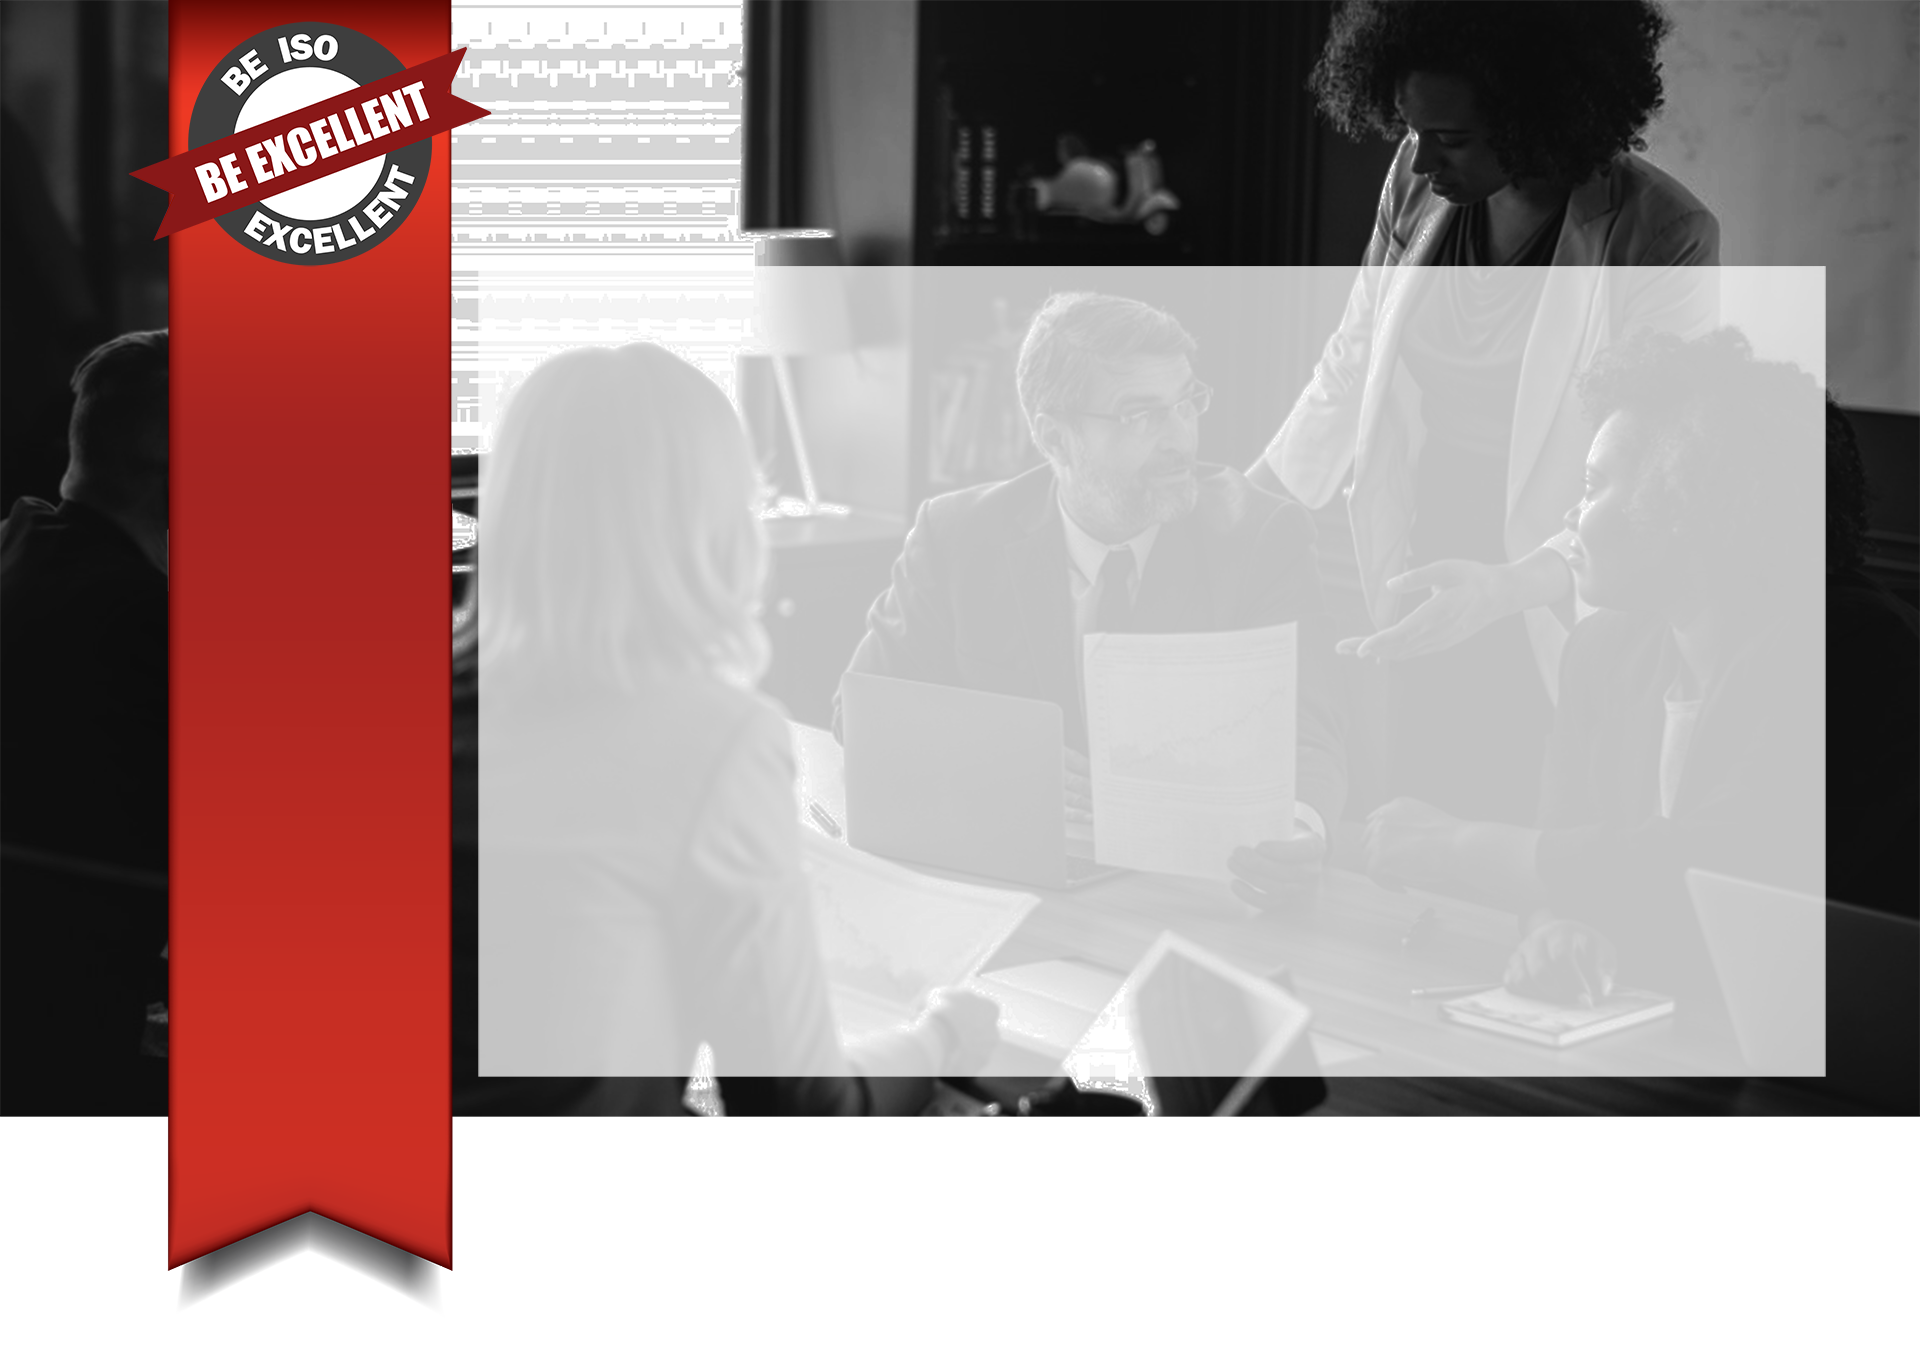
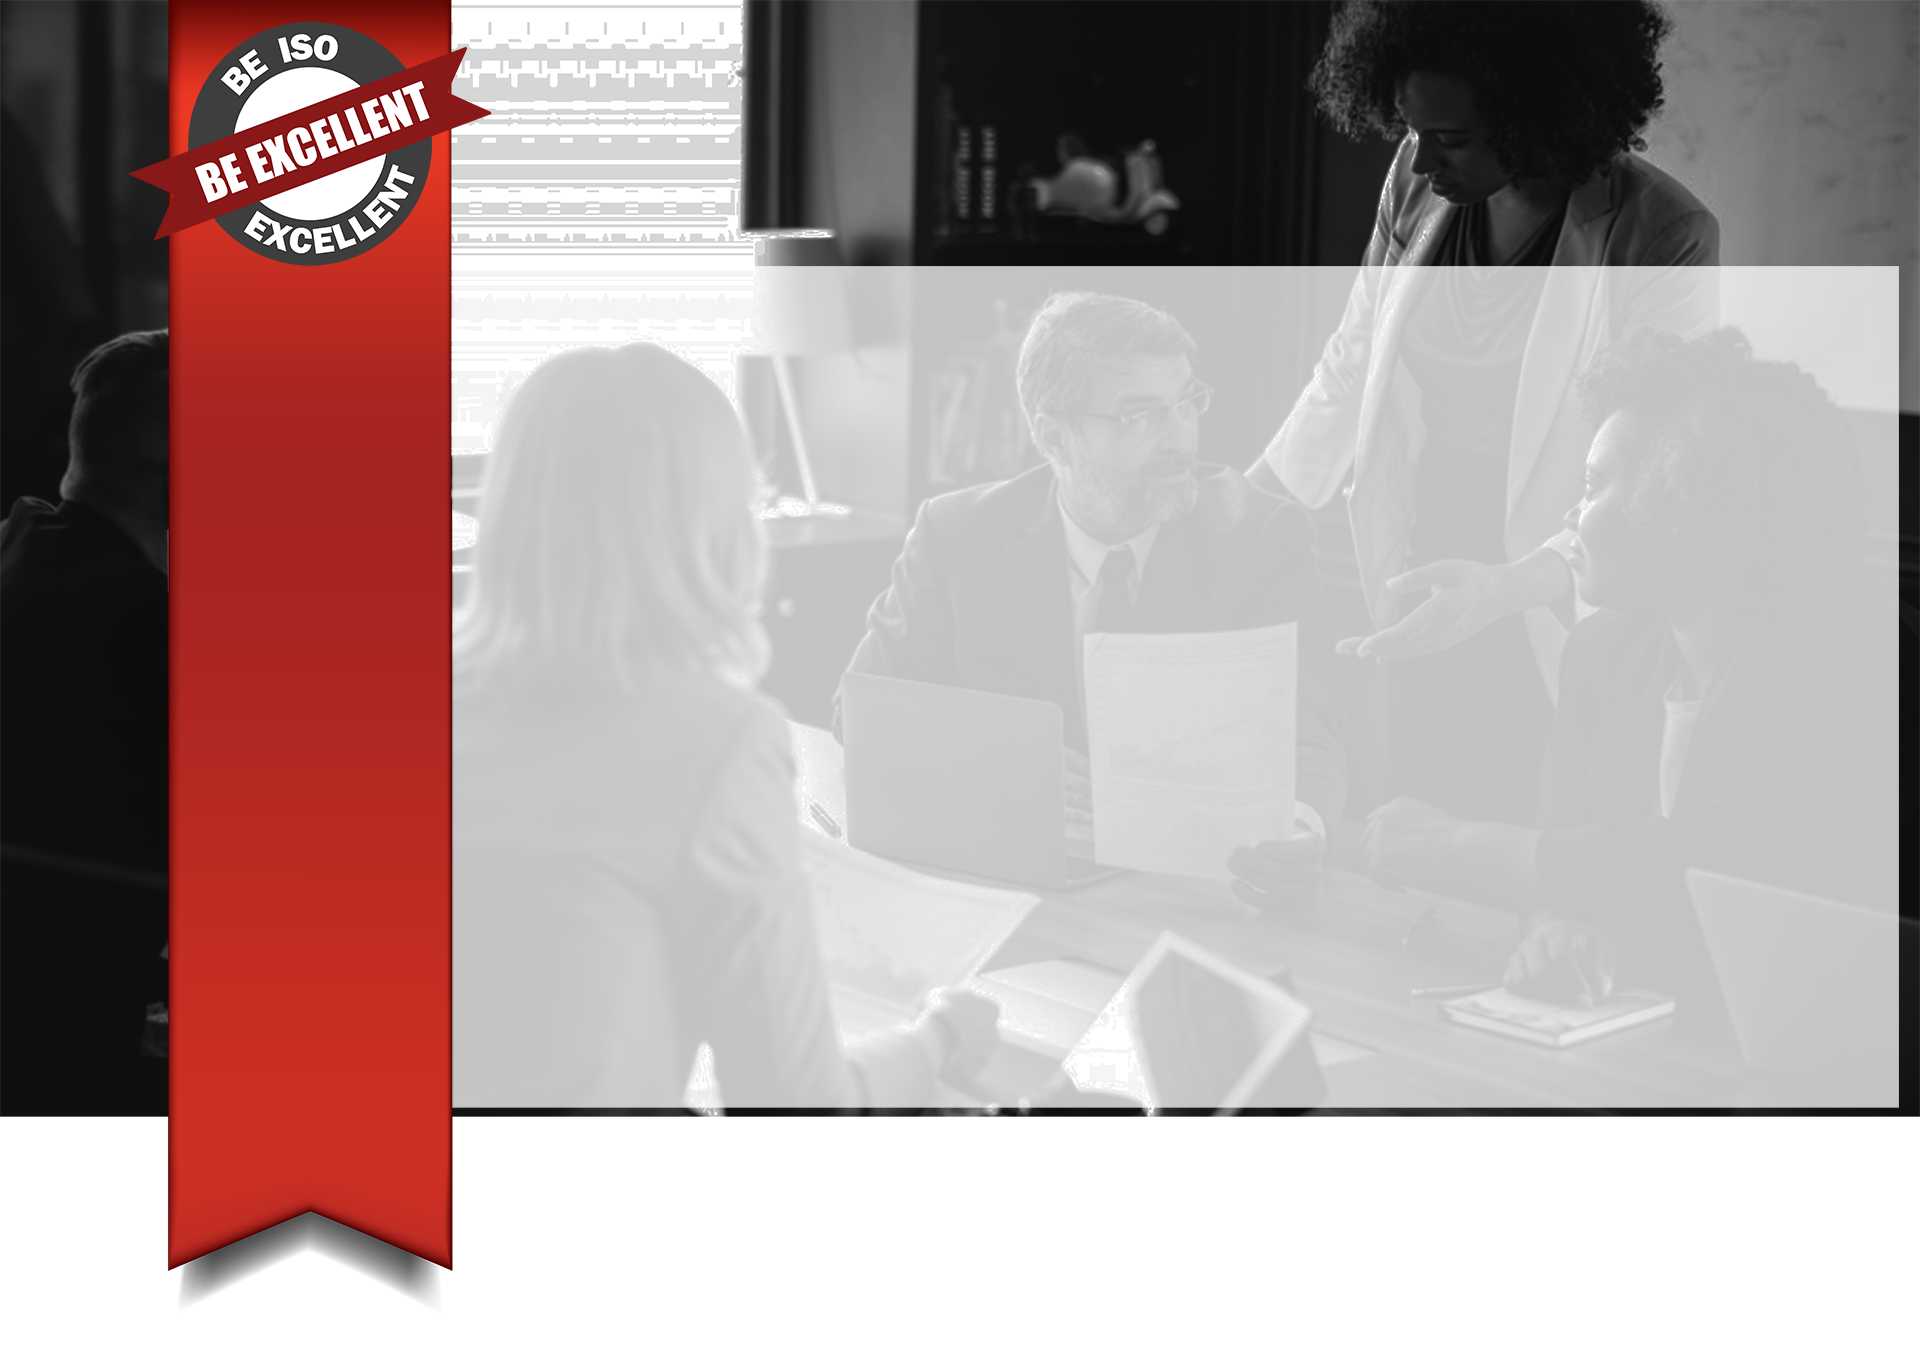
Add files via upload

Changed region(s): [[0.2188, 0.1871, 1.0, 0.8419]]

diff --git a/home.html b/home.html
@@ -34,7 +34,8 @@
 
 
         </div>
-        <div class="right">      
+        <div class="right">   
+            <div class="rectangle"> 
            
             <p>Lorem ipsum dolor sit amet, consectetur adipiscing elit, sed do eiusmo
             tempor incididunt ut labore et dolore magna aliqua. Porta nibh venenatis
@@ -70,6 +71,7 @@
             at risus viverra adipiscing at. Orci eu lobortis elementum nibh tellus molestie.
             Risus sed vulputate odio ut enim blandit volutpat. Placerat vestibulum lectus 
             mauris ultrices eros in cursus turpis.</p>  
+            </div>
         </div>
     </main>
     <footer></footer>    

diff --git a/enterprise.css b/enterprise.css
@@ -32,7 +32,7 @@ header {
     display: flex;
     -webkit-flex-direction: row;
     flex-direction: row; 
-    height: 63%;
+    height: 40%;
     padding-top: 5%;
     overflow: hidden;
 }
@@ -41,11 +41,15 @@ header {
 }
 .right { -webkit-flex: 8.5;
     flex: 8.5;
-    position: relative;  
+    position: relative;
+}
+.rectangle{ 
+    height: 62%;
+
     padding-left: 7%;
     padding-right: 6%;
     padding-bottom: 3%;
-    overflow: hidden;
+    overflow: auto;
     font-size: large;  
 }
 .left ul { list-style-type: none; 
